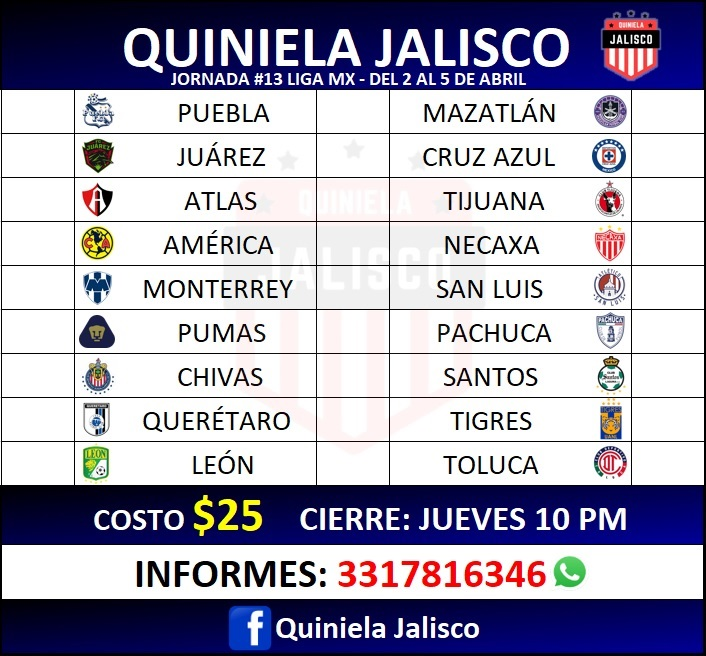
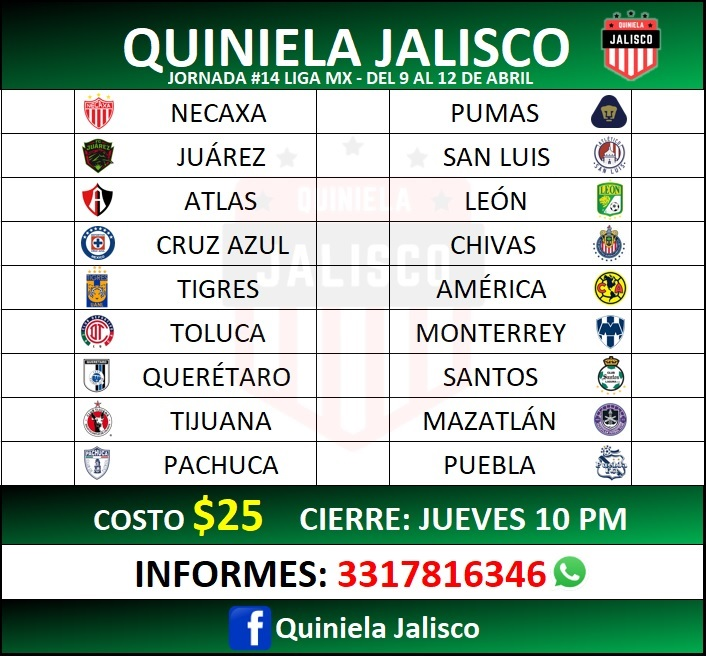
Jornada 14 C21

diff --git a/styles.css b/styles.css
@@ -73,7 +73,7 @@ body{
     max-width: 400px;
     margin: auto;
     background-color: rgb(6,12,37);
-    background-image: url("fondo2.jpg");
+    background-image: url("fondo7.jpg");
     background-repeat: repeat-y;
     background-position: top;
 }
@@ -81,15 +81,14 @@ body{
   
 
 h1{
-    background-color: teal;
     text-align: center;
     padding: 18px;
     color: whitesmoke;
     margin-top: 8%;
     border: solid 1px black;
     border-radius: 0 0 14px 14px;
-    background: -webkit-linear-gradient(0.04turn, rgb(8,20,20)  ,rgb(3,0,141) 80%);
-    background: linear-gradient(0.04turn, rgb(8,20,20)  ,rgb(3,0,141) 80%);
+    background: -webkit-linear-gradient(0.04turn, rgb(8,20,20)  ,rgb(17,160,78) 80%);
+    background: linear-gradient(0.04turn, rgb(8,20,20)  ,rgb(17,160,78) 80%);
     font-size: x-large;
 }
 
